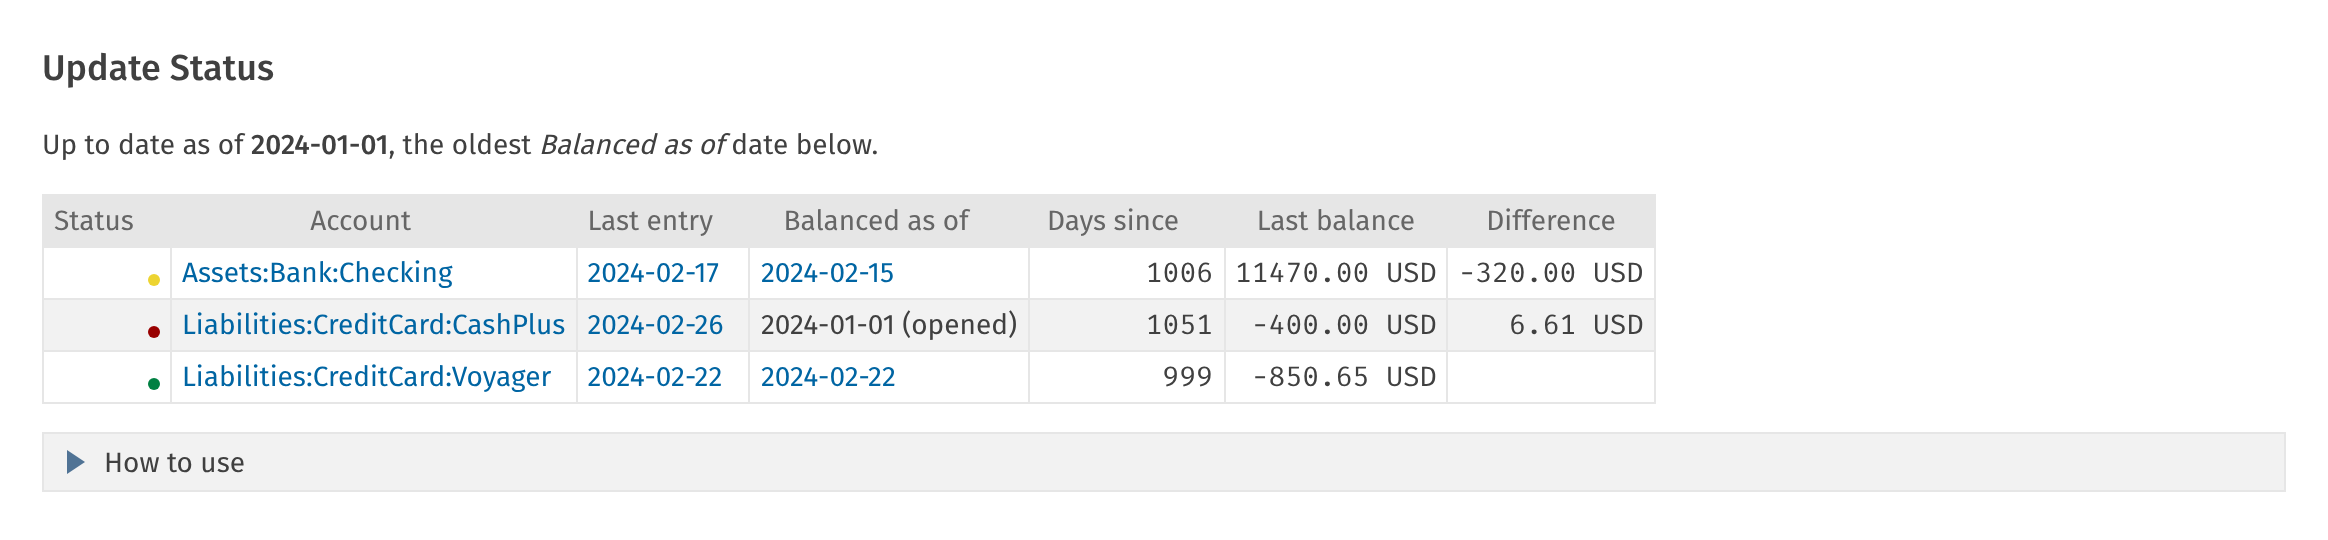
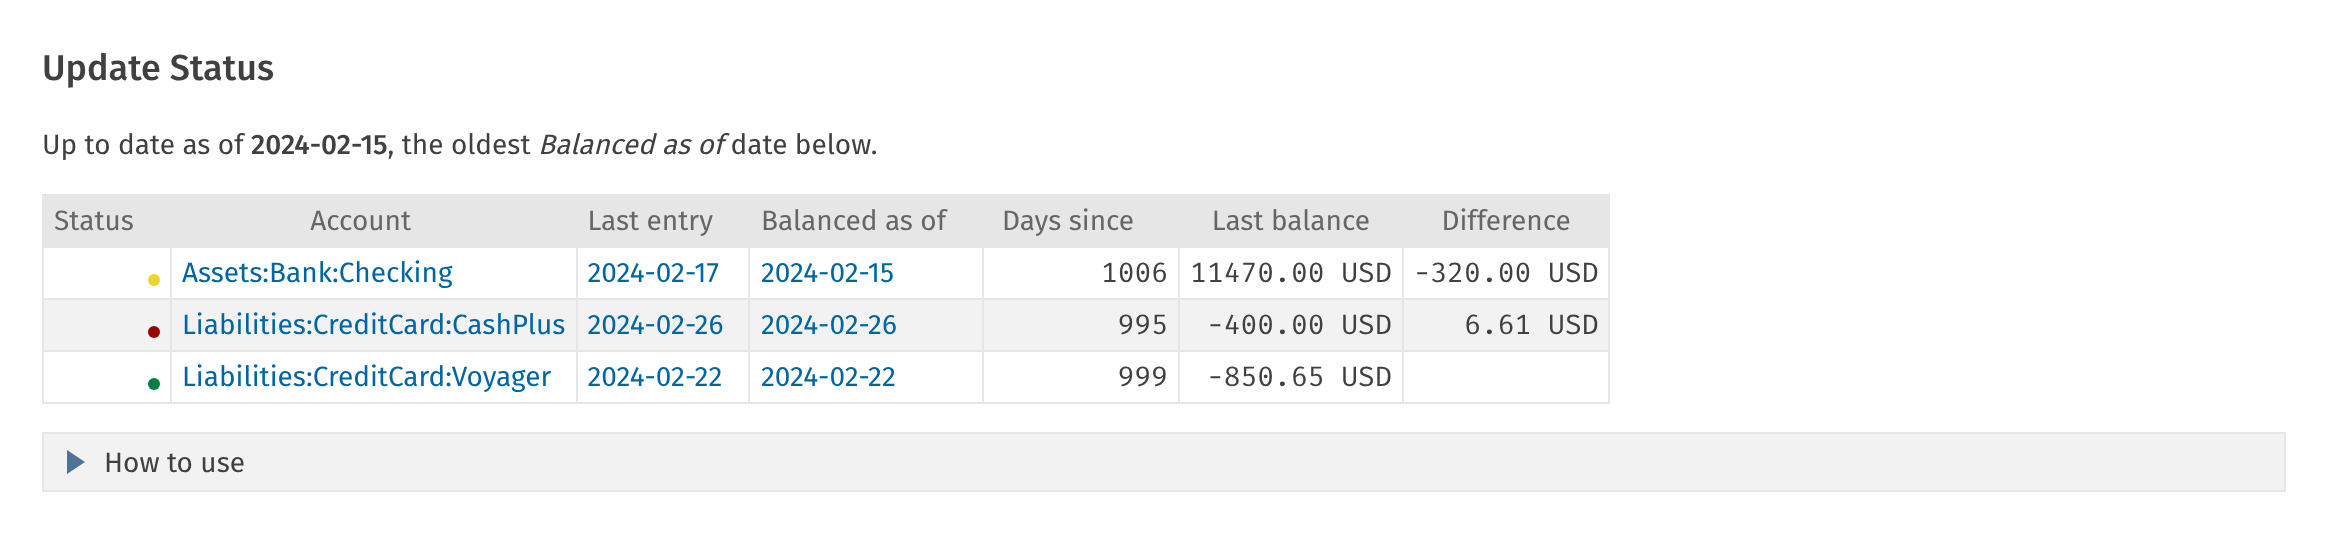
Update Status: balanced as of the last assertion, passing or failing
"Balanced as of", its days since, and "Up to date as of" now use each
account's last balance assertion whether it passed or failed, the same
assertion as the Last balance column.

Claude-Session: https://claude.ai/code/session_01KmgJLZjK5mttXsmcq9tafp

diff --git a/src/beancount_sg/ext/update_status/templates/UpdateStatus.html b/src/beancount_sg/ext/update_status/templates/UpdateStatus.html
@@ -70,12 +70,12 @@
       if it's a transaction, and red if it's a failing balance assertion. Click a yellow or red dot
       to copy balance directives for today.</li>
     <li><em>Last balance</em> is the amount of the account's last balance assertion in each
-      currency, passing or not. <em>Difference</em> is the ledger's balance minus that: blank for a
+      currency, whether it passed or failed. <em>Difference</em> is the ledger's balance minus that: blank for a
       green dot, the failing assertion's difference for red, and the current balance minus the last
       balance for yellow (what a new assertion would need to confirm).</li>
-    <li><em>Balanced as of</em> is the date of the account's last passing balance assertion, which
-      checks the balance at the start of that day; an account that's never been balanced shows the
-      date it was opened. <em>Up to date as of</em> is the oldest of these.</li>
+    <li><em>Balanced as of</em> is the date of the account's last balance assertion, passing or
+      failing, which checks the balance at the start of that day; an account that's never been
+      balanced shows the date it was opened. <em>Up to date as of</em> is the oldest of these.</li>
     <li>Click a date to open its entry, or a column header to sort. The report covers the whole
       ledger, whatever Fava's filters.</li>
   </ul>

diff --git a/src/beancount_sg/ext/update_status/__init__.py b/src/beancount_sg/ext/update_status/__init__.py
@@ -13,15 +13,15 @@ The "Update Status" report lists the open accounts with Fava's
   Clicking a yellow or red dot copies balance directives for today, as in
   Fava's sidebar.
 - The date of its last entry, linking to it.
-- The date of its last passing balance assertion, linking to it, and how many
+- The date of its last balance assertion, passing or failing, linking to it, and how many
   days ago that was. An account that's never been balanced counts from the
   day it was opened.
-- Its last balance: each currency's last asserted amount, passing or not.
+- Its last balance: each currency's last asserted amount.
 - The difference between the ledger and that: blank if the dot is green; for
   red, the failing assertion's difference; for yellow, the current balance
   minus the last asserted amount (what a new assertion would need to confirm).
 
-Above the table, "Up to date as of" is the oldest last passing assertion date. A balance
+Above the table, "Up to date as of" is the oldest of those assertion dates. A balance
 assertion checks the balance at the start of its day, so it confirms the
 transactions before that date.
 
@@ -59,18 +59,16 @@ class AccountStatus:
     opened: datetime.date
     # Each currency's last balance assertion, whether it passed or failed.
     last_assertions: dict[str, Balance]
-    # Each currency's last passing balance assertion.
-    last_passing: dict[str, Balance]
     balance: list[Amount]
 
     @property
     def last_balance(self) -> Balance | None:
-        """The account's last passing balance assertion, in any currency."""
-        return max(self.last_passing.values(), key=lambda entry: entry.date, default=None)
+        """The account's last balance assertion in any currency, passing or failing."""
+        return max(self.last_assertions.values(), key=lambda entry: entry.date, default=None)
 
     @property
     def balanced_as_of(self) -> datetime.date:
-        """The date of the last passing balance assertion, or else of the open."""
+        """The date of the last balance assertion, or else of the open."""
         last = self.last_balance
         return last.date if last else self.opened
 
@@ -109,12 +107,6 @@ class AccountStatus:
         ]
 
 
-def _keep_latest(by_currency: dict[str, Balance], entry: Balance) -> None:
-    previous = by_currency.get(entry.amount.currency)
-    if not previous or entry.date >= previous.date:
-        by_currency[entry.amount.currency] = entry
-
-
 def account_statuses(entries: Iterable[Directive]) -> list[AccountStatus]:
     """The open accounts with ``fava-uptodate-indication`` metadata, by account name."""
     entries = list(entries)
@@ -125,13 +117,12 @@ def account_statuses(entries: Iterable[Directive]) -> list[AccountStatus]:
         if isinstance(entry, Open) and entry.meta.get(UPTODATE_KEY) and entry.account not in closed
     }
     last_assertions: dict[str, dict[str, Balance]] = defaultdict(dict)
-    last_passing: dict[str, dict[str, Balance]] = defaultdict(dict)
     balances: dict[str, dict[str, Decimal]] = defaultdict(lambda: defaultdict(Decimal))
     for entry in entries:
         if isinstance(entry, Balance) and entry.account in tracked:
-            _keep_latest(last_assertions[entry.account], entry)
-            if not entry.diff_amount:
-                _keep_latest(last_passing[entry.account], entry)
+            previous = last_assertions[entry.account].get(entry.amount.currency)
+            if not previous or entry.date >= previous.date:
+                last_assertions[entry.account][entry.amount.currency] = entry
         elif isinstance(entry, Transaction):
             for posting in entry.postings:
                 if posting.account in tracked:
@@ -141,7 +132,6 @@ def account_statuses(entries: Iterable[Directive]) -> list[AccountStatus]:
             account,
             opened,
             last_assertions[account],
-            last_passing[account],
             [
                 Amount(number, currency)
                 for currency, number in sorted(balances[account].items())

diff --git a/tests/ext/test_update_status.py b/tests/ext/test_update_status.py
@@ -83,11 +83,10 @@ def test_green_has_no_difference():
 def test_red_difference_is_the_failing_assertions():
     found, _ = statuses()
     vti = found["Assets:Brokerage:VTI"]
-    # The failing assertion is the last balance, but not the last passing one.
     assert vti.last_balance_amounts == [A("2", "VTI")]
     assert vti.difference("red") == [A("1", "VTI")]  # the ledger has 3
-    assert vti.last_balance is None
-    assert vti.balanced_as_of == datetime.date(2020, 1, 1)
+    # A failing assertion still counts as the last balance.
+    assert vti.balanced_as_of == datetime.date(2024, 4, 1)
 
 
 def test_differences_are_per_currency():
@@ -149,7 +148,7 @@ def cells(row_html):
 
 def test_page_lists_accounts_with_status_and_dates(tmp_path):
     body = page(tmp_path)
-    assert "Up to date as of 2020-01-01" in text(body)
+    assert "Up to date as of 2024-03-01" in text(body)
     checking = row(body, "Assets:Checking")
     assert 'class="status-indicator status-yellow"' in checking
     assert cells(checking)[2:] == [
@@ -164,7 +163,7 @@ def test_page_lists_accounts_with_status_and_dates(tmp_path):
     assert cells(card)[-2:] == ["-50.00 USD", ""]
     vti = row(body, "Assets:Brokerage:VTI")
     assert 'class="status-indicator status-red"' in vti
-    assert cells(vti)[3] == "2020-01-01 (opened)"
+    assert cells(vti)[3] == "2024-04-01"  # the failing assertion
     assert cells(vti)[-2:] == ["2 VTI", "1 VTI"]
     table = body[body.index("<table") : body.index("</table>")]
     assert "Assets:Untracked" not in table
@@ -193,10 +192,11 @@ def test_yellow_dot_copies_balance_directives(tmp_path):
     assert re.search(r"balance Assets:Checking\s+980.00 USD", directives)
 
 
-def test_up_to_date_as_of_is_the_oldest_balance(tmp_path):
-    balanced = LEDGER + "2024-04-02 balance Assets:Brokerage:VTI  3 VTI\n"
-    body = text(page(tmp_path, balanced))
-    assert "Up to date as of 2024-03-01" in body
+def test_never_balanced_accounts_count_from_their_open(tmp_path):
+    never = LEDGER + "2022-06-01 open Assets:Savings USD\n  fava-uptodate-indication: TRUE\n"
+    body = page(tmp_path, never)
+    assert "Up to date as of 2022-06-01" in text(body)
+    assert cells(row(body, "Assets:Savings"))[3] == "2022-06-01 (opened)"
 
 
 def test_ignores_fava_filters(tmp_path):

diff --git a/docs/fava/update-status.md b/docs/fava/update-status.md
@@ -31,8 +31,8 @@ Each tracked account has:
   yellow if it's a transaction, and red if it's a failing balance assertion. Click a yellow or red
   dot to copy balance directives for today, as in Fava's sidebar.
 - **Last entry:** the date of the account's last entry.
-- **Balanced as of:** the date of its last passing balance assertion, or the date it was opened if
-  it's never been balanced.
+- **Balanced as of:** the date of its last balance assertion, passing or failing, or the date it
+  was opened if it's never been balanced.
 - **Days since:** days from that date to today.
 - **Last balance:** the amount of the account's last balance assertion in each currency, whether
   it passed or failed.

diff --git a/README.md b/README.md
@@ -163,8 +163,8 @@ spend and value by card and category. Categories link to the card's transactions
 ```
 
 An "Update Status" report of the accounts with Fava's `fava-uptodate-indication`: each one's
-status, last entry, last passing balance assertion, last asserted balance and the ledger's
-difference from it, plus the oldest of the balance dates. [Docs](docs/fava/update-status.md)
+status, last entry, last balance assertion and its amount, the ledger's difference from it, and the
+oldest of the balance dates. [Docs](docs/fava/update-status.md)
 
 ## Utilities
 
